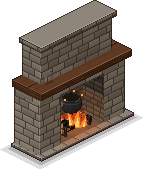
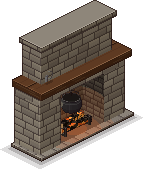
fix(arte): fogueira, lareira e forja sem a chama assada no desenho
A chama é só a viva do cliente (pixel); o desenho fica com a lenha, a pedra e a brasa. CHAMA_ASSADA em ocultismo.py liga de volta.

Changed region(s): [[0.4196, 0.6509, 0.6154, 0.7692], [0.5035, 0.5325, 0.5315, 0.5621]]

diff --git a/scripts/3d/estilo/pecas_px/ocultismo.py b/scripts/3d/estilo/pecas_px/ocultismo.py
@@ -996,6 +996,10 @@ def rubble():
     peg(0.3, 1.3, 0.3, 1.3)
 
 
+# a chama desenhada no sprite (False: só a chama viva do cliente, em pixel)
+CHAMA_ASSADA = False
+
+
 def chama_corpo(cx, cy, s, z0, larg, alto, cor, frente, torto=0.0, o=None):
     """
     Uma chama de frente para a câmera: o corpo arredondado (o octógono largo embaixo, afinando) e a ponta torta, em
@@ -1067,7 +1071,9 @@ def fogueira(acesa=True):
               {'*': carvao('#3a2c22' if acesa else '#262020', brasa=0.3 if acesa else 0.0, seed=20 + k, celula=(5, 3)),
                'frente': liso('#c8a070' if k % 2 else '#b08a5a'), 'costas': liso('#1a1412')},
               yaw=math.degrees(a) - 90, pitch=-38)
-    if acesa:
+    # a chama é VIVA no cliente (particles.ts: a grade de calor em pixel); aqui fica só a lenha e a brasa. Para assar a
+    # chama no desenho de novo, mude CHAMA_ASSADA para True.
+    if acesa and CHAMA_ASSADA:
         o1 = C().novo_obj(3, contorno=False, sombra=False)
         chama_corpo(cx, cy, 0.0, 0.06, 0.42, 0.5, '#c8401a', 0.0, 0.0, o1)
         for (s, lg, al, tt) in ((-0.15, 0.14, 0.5, -0.04), (0.02, 0.18, 0.8, 0.03), (0.15, 0.13, 0.58, 0.05)):

diff --git a/scripts/3d/estilo/pecas_px/medieval.py b/scripts/3d/estilo/pecas_px/medieval.py
@@ -279,6 +279,8 @@ def fogo(cx_, cy_, larg=0.42, alto=0.42, z0=0.0, frente=0.0):
     o laranja e o miolo amarelo), a mais alta no meio, a base baixa juntando todas, e as fagulhas. Centrado em
     (cx, cy), com a base em z0.
     """
+    if not OC.CHAMA_ASSADA:
+        return  # a chama é viva no cliente (particles.ts); o desenho fica só com a lenha e a brasa
     linguas = ((-0.34, 0.3, 0.55, -0.06), (-0.1, 0.34, 0.85, -0.03), (0.13, 0.36, 1.0, 0.05), (0.36, 0.28, 0.62, 0.07))
     o1, o2, o3 = luz_obj(), luz_obj(), luz_obj()
     chama(cx_, cy_, 0.0, z0, larg * 1.05, alto * 0.3, '#c8401a', frente, 0.0, o1)
